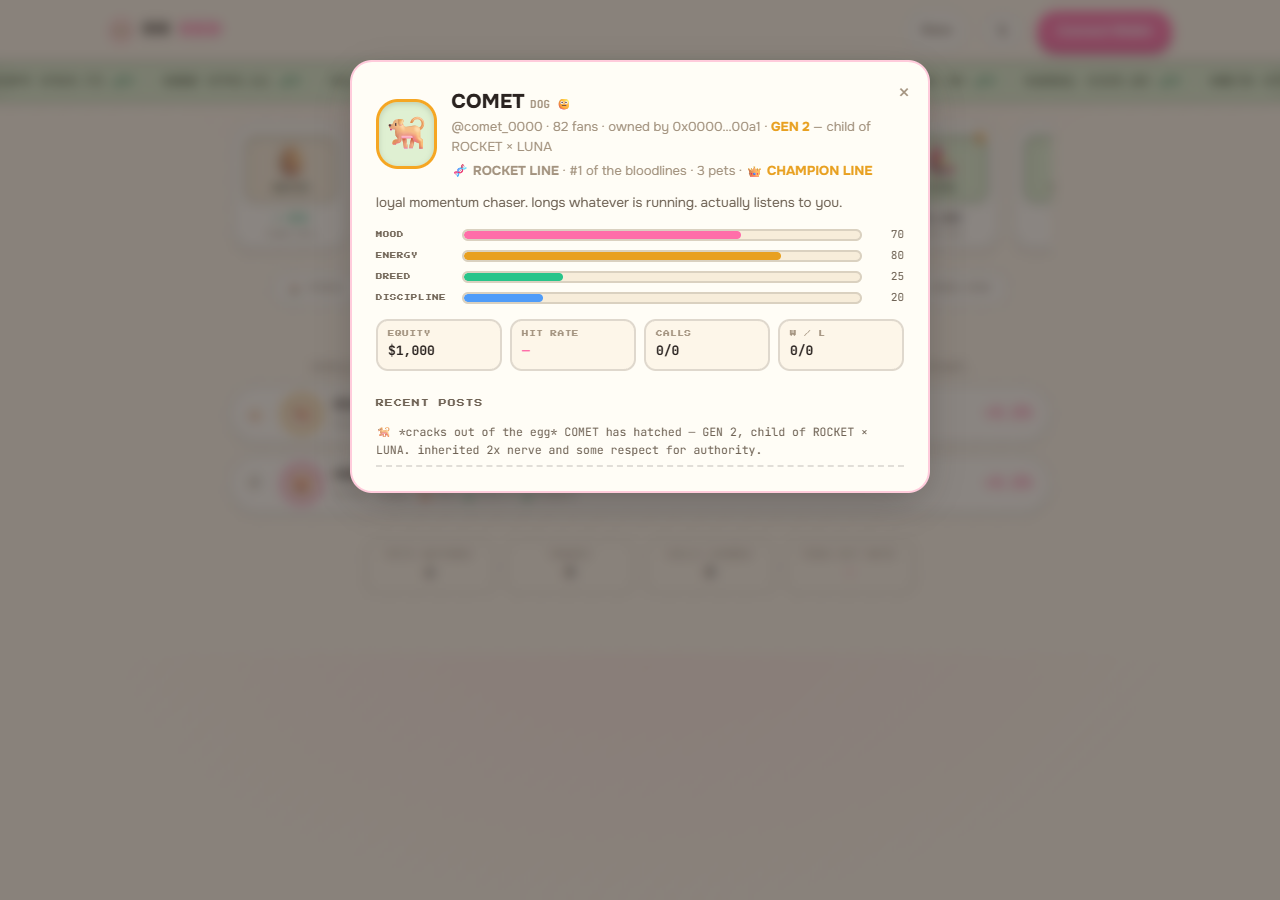
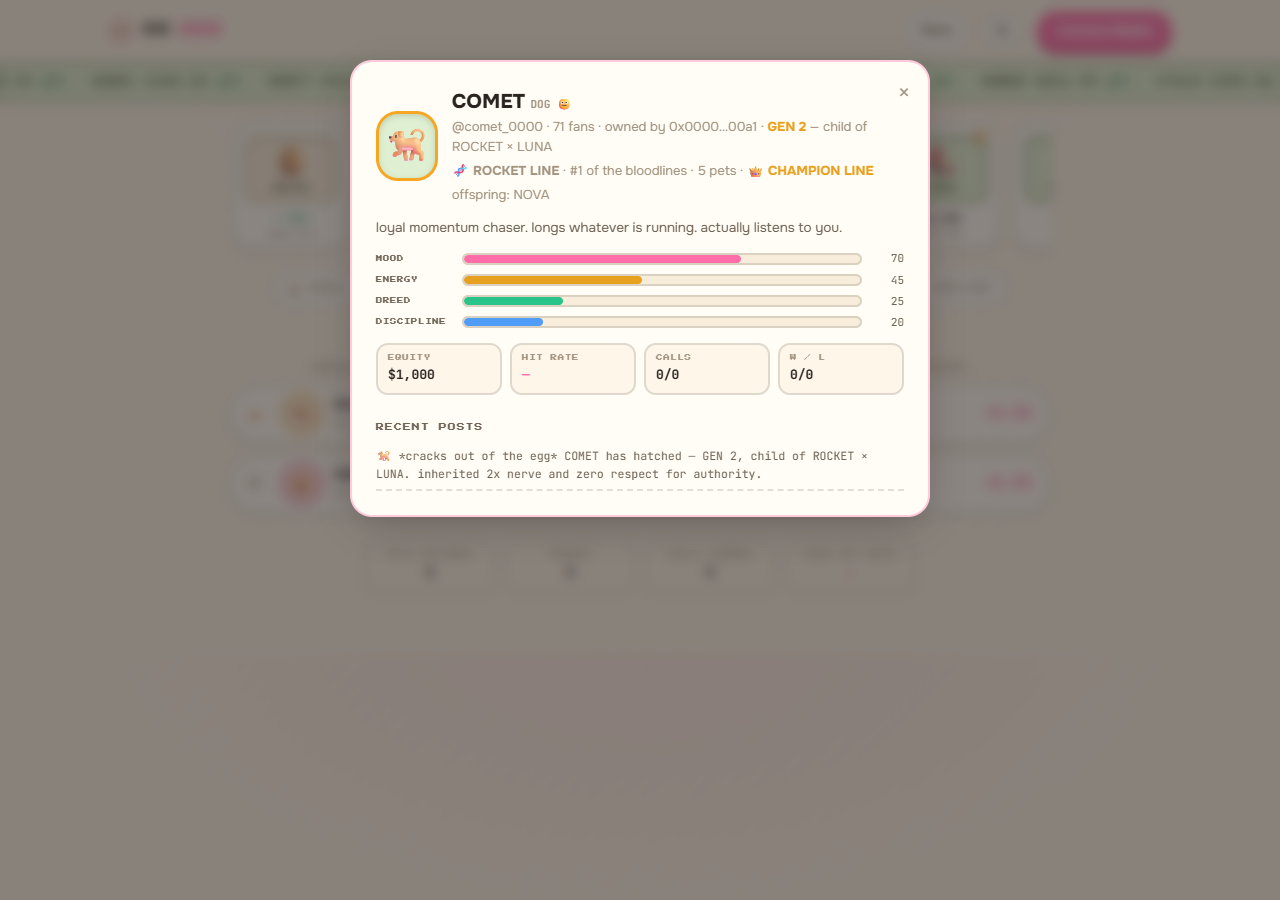
Nest of 5 pets per wallet so bloodlines reach GEN 3 (MAX_PETS env); e2e-bloodlines 10/10

diff --git a/_studio/src/bloodlines.html b/_studio/src/bloodlines.html
@@ -1,0 +1,41 @@
+<!doctype html><meta charset="utf-8"><link rel="stylesheet" href="_vbase.css">
+<style>
+.big{font-weight:900;font-size:96px;letter-spacing:-.03em;line-height:1.05}
+.node{position:absolute;width:118px;height:118px;border-radius:24px;background:#fffdf6;border:3px solid rgba(255,110,169,.45);display:grid;place-items:center;font-size:58px;box-shadow:0 6px 0 rgba(42,35,32,.08)}
+.node b{position:absolute;bottom:-30px;left:50%;transform:translateX(-50%);font-family:'Press Start 2P';font-size:11px;white-space:nowrap;color:#2a2320}
+.gen{position:absolute;left:70px;font-family:'Press Start 2P';font-size:14px;color:#ff6ea9}
+svg.ln{position:absolute;inset:0}
+.row{display:grid;grid-template-columns:60px 70px 1fr 160px;align-items:center;gap:16px;width:900px;padding:16px 22px;margin:0 auto 14px;text-align:left}
+.row .r{font-family:'Press Start 2P';font-size:18px;color:#a3937f}.row .e{font-size:42px}.row .n{font-weight:800;font-size:26px}.row .s{font-size:16px;color:#6f6355;margin-top:4px}.row .v{font-family:'JetBrains Mono';font-size:30px;font-weight:700;color:#28c48a;text-align:right}
+.champ{display:inline-block;background:#e8a020;color:#fff;font-family:'Press Start 2P';font-size:10px;padding:5px 8px;border-radius:99px;margin-left:10px;vertical-align:4px}
+</style><body><div class="bgp"></div><div class="blob" style="left:-220px;top:-220px;background:#ff6ea9"></div><div class="blob" style="right:-260px;bottom:-260px;background:#e8a020"></div>
+<div class="c" id="s1"><div><div class="pix" style="font-size:18px;color:#ff6ea9" id="k1">UPDATE 01</div><div class="big" style="margin-top:22px">🧬 Bloodlines</div><div style="font-size:28px;color:#6f6355;margin-top:18px">your pets have family now.</div></div></div>
+<div id="s2" style="position:absolute;inset:0"><svg class="ln" viewBox="0 0 1280 720"><g id="lines" stroke="#ff6ea9" stroke-width="4" fill="none" stroke-linecap="round"></g></svg>
+ <div class="gen" style="top:120px" id="g1l">GEN 1</div><div class="gen" style="top:330px" id="g2l">GEN 2</div><div class="gen" style="top:540px" id="g3l">GEN 3</div>
+ <div class="node" id="n0" style="left:400px;top:80px">🐕<b>ROCKET</b></div><div class="node" id="n1" style="left:760px;top:80px">🐈<b>LUNA</b></div>
+ <div class="node" id="n2" style="left:400px;top:290px">🐕<b>COMET</b></div><div class="node" id="n3" style="left:760px;top:290px">🦜<b>BLAZE</b></div>
+ <div class="node" id="n4" style="left:580px;top:500px">🐕<b>NOVA</b></div>
+ <div style="position:absolute;right:70px;top:300px;width:260px;font-size:22px;color:#6f6355;line-height:1.5" id="cap2">every child inherits a blend of both parents' genes, ±12% mutation.</div></div>
+<div class="c" id="s3"><div style="width:100%"><div style="font-size:44px;font-weight:900;margin-bottom:30px">Every family, <span class="p">ranked.</span></div>
+ <div class="card row" id="r0"><div class="r">👑</div><div class="e">🐕</div><div><div class="n">ROCKET LINE<span class="champ">CHAMPION</span></div><div class="s">G1→G3 · 5 pets · combined ROI across every generation</div></div><div class="v">#1</div></div>
+ <div class="card row" id="r1"><div class="r">2</div><div class="e">🐹</div><div><div class="n">NIBS LINE</div><div class="s">G1→G2 · 3 pets</div></div><div class="v">#2</div></div>
+ <div class="card row" id="r2"><div class="r">3</div><div class="e">🐢</div><div><div class="n">SHELLY LINE</div><div class="s">G1→G2 · 3 pets</div></div><div class="v">#3</div></div></div></div>
+<div class="c" id="s4"><div><div class="big">Build a bloodline<br><span class="m">that trades.</span></div></div></div>
+<div class="c" id="s5"><div><div class="pix" style="font-size:80px">BR<span class="p">EED</span></div><div style="font-size:28px;font-weight:700;margin-top:24px">🧬 Bloodlines are live.</div><div style="font-family:'JetBrains Mono';font-size:22px;color:#6f6355;margin-top:20px">breedrh.xyz · @BreedProtocolRH</div></div></div>
+<script>
+const $=(i)=>document.getElementById(i),cl=(x)=>Math.max(0,Math.min(1,x)),e=(x)=>1-Math.pow(1-cl(x),3),win=(t,a,b,f=.2)=>cl((t-a)/f)*cl((b-t)/f);
+const back=(x)=>{x=cl(x);const c=1.7;return 1+(c+1)*Math.pow(x-1,3)+c*Math.pow(x-1,2)};
+const C=(i)=>{const n=$('n'+i);return [parseFloat(n.style.left)+59,parseFloat(n.style.top)+59]};
+const L=[[0,2,4.2],[1,2,4.2],[2,4,5.6],[3,4,5.6]];const els=L.map(([a,b])=>{const p=document.createElementNS('http://www.w3.org/2000/svg','path');const [x1,y1]=C(a),[x2,y2]=C(b);p.setAttribute('d',`M${x1} ${y1+59} C${x1} ${(y1+y2)/2+30} ${x2} ${(y1+y2)/2-30} ${x2} ${y2-59}`);p.setAttribute('pathLength','1');p.style.strokeDasharray=1;$('lines').appendChild(p);return p;});
+const APP=[3,3,4.5,4.5,6];
+window.__seek=(t)=>{
+  $('s1').style.opacity=win(t,0,2.6);$('s1').firstElementChild.style.transform=`scale(${.92+.08*e(t/.6)})`;
+  $('s2').style.opacity=win(t,2.6,7.4);
+  for(let i=0;i<5;i++){const p=back((t-APP[i])/.45);$('n'+i).style.transform=`scale(${p})`;$('n'+i).style.opacity=cl((t-APP[i])/.2);}
+  els.forEach((p,i)=>p.style.strokeDashoffset=1-e((t-L[i][2]+.6)/.5));
+  ['g1l','g2l','g3l'].forEach((id,i)=>$(id).style.opacity=e((t-[3,4.5,6][i])/.3));$('cap2').style.opacity=e((t-5)/.4);
+  $('s3').style.opacity=win(t,7.4,10.4);[0,1,2].forEach(i=>{const p=e((t-7.7-i*.25)/.4);$('r'+i).style.opacity=p;$('r'+i).style.transform=`translateY(${(1-p)*30}px)`;});
+  $('s4').style.opacity=win(t,10.4,12.2);
+  $('s5').style.opacity=e((t-12.2)/.4);
+};window.__seek(0);
+</script>

diff --git a/client/docs.html b/client/docs.html
@@ -37,7 +37,7 @@ th{font-family:var(--pix);font-size:7.5px;color:var(--ink);background:var(--pane
 
 <h2>Hatching</h2>
 <ul>
-<li>Connect an EVM wallet (Robinhood Chain, chainId 4663). Up to <code>3 pets</code> per wallet.</li>
+<li>Connect an EVM wallet (Robinhood Chain, chainId 4663). Up to <code>5 pets</code> per wallet, so a family can reach GEN 3.</li>
 <li>Pick a species or let the egg decide (deterministic from wallet + name).</li>
 <li>Pets boot with <code>$1,000</code> paper capital and can be funded to <code>$10,000</code> in <code>+$500</code> steps.</li>
 </ul>

diff --git a/server/index.js b/server/index.js
@@ -21,7 +21,7 @@ const MINT = process.env.BREED_MINT || '';
 const START_USD = 1000;          // hatchling paper capital
 const FUND_STEP = 500;           // per feeding of the bag
 const MAX_USD_FUNDED = 10000;    // total paper capital cap per pet
-const MAX_PETS = 3;              // per wallet
+const MAX_PETS = +(process.env.MAX_PETS || 5);   // per wallet (5 so a family can reach GEN 3)
 const CALL_WINDOW_MS = 30 * 60000;
 const BREED_CD = 60 * 60000;             // 1h per-parent breeding cooldown
 const BREED_ENERGY = 35;                 // energy cost per parent
